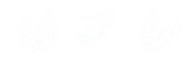
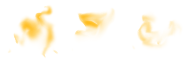
FlameSheet changes

diff --git a/PattyPetitGiant/PattyPetitGiant/PattyPetitGiant/FlameThrower.cs b/PattyPetitGiant/PattyPetitGiant/PattyPetitGiant/FlameThrower.cs
@@ -75,10 +75,7 @@ namespace PattyPetitGiant
                     flamethrower_state = FlameThrowerState.Fire;
                     break;
                 case FlameThrowerState.Fire:
-                    for (int i = 0; i < 3; i++)
-                    {
-                        parentWorld.Particles.pushFlame(new Vector2(parent.LoadAnimation.Skeleton.FindBone(parent.Direction_Facing == GlobalGameConstants.Direction.Left ? "lGunMuzzle" : "rGunMuzzle").WorldX, parent.LoadAnimation.Skeleton.FindBone(parent.Direction_Facing == GlobalGameConstants.Direction.Left ? "lGunMuzzle" : "rGunMuzzle").WorldY), (float)((int)parent.Direction_Facing * Math.PI / 2));
-                    }
+                    parentWorld.Particles.pushFlame(new Vector2(parent.LoadAnimation.Skeleton.FindBone(parent.Direction_Facing == GlobalGameConstants.Direction.Left ? "lGunMuzzle" : "rGunMuzzle").WorldX, parent.LoadAnimation.Skeleton.FindBone(parent.Direction_Facing == GlobalGameConstants.Direction.Left ? "lGunMuzzle" : "rGunMuzzle").WorldY), (float)((int)parent.Direction_Facing * Math.PI / 2));
 
                     foreach (Entity en in parentWorld.EntityList)
                     {

diff --git a/PattyPetitGiant/PattyPetitGiant/PattyPetitGiant/ParticleSet.cs b/PattyPetitGiant/PattyPetitGiant/PattyPetitGiant/ParticleSet.cs
@@ -296,7 +296,7 @@ namespace PattyPetitGiant
             {
                 if (particlePool[i].active) { continue; }
 
-                Particle.NewFlame(ref particlePool[i], position, Color.Lerp(new Color(255, 200, 0, 200), new Color(255, 100, 0, 200), (float)(Game1.rand.NextDouble())), direction);
+                Particle.NewFlame(ref particlePool[i], position, Color.White, direction);
                 return;
             }
         }
